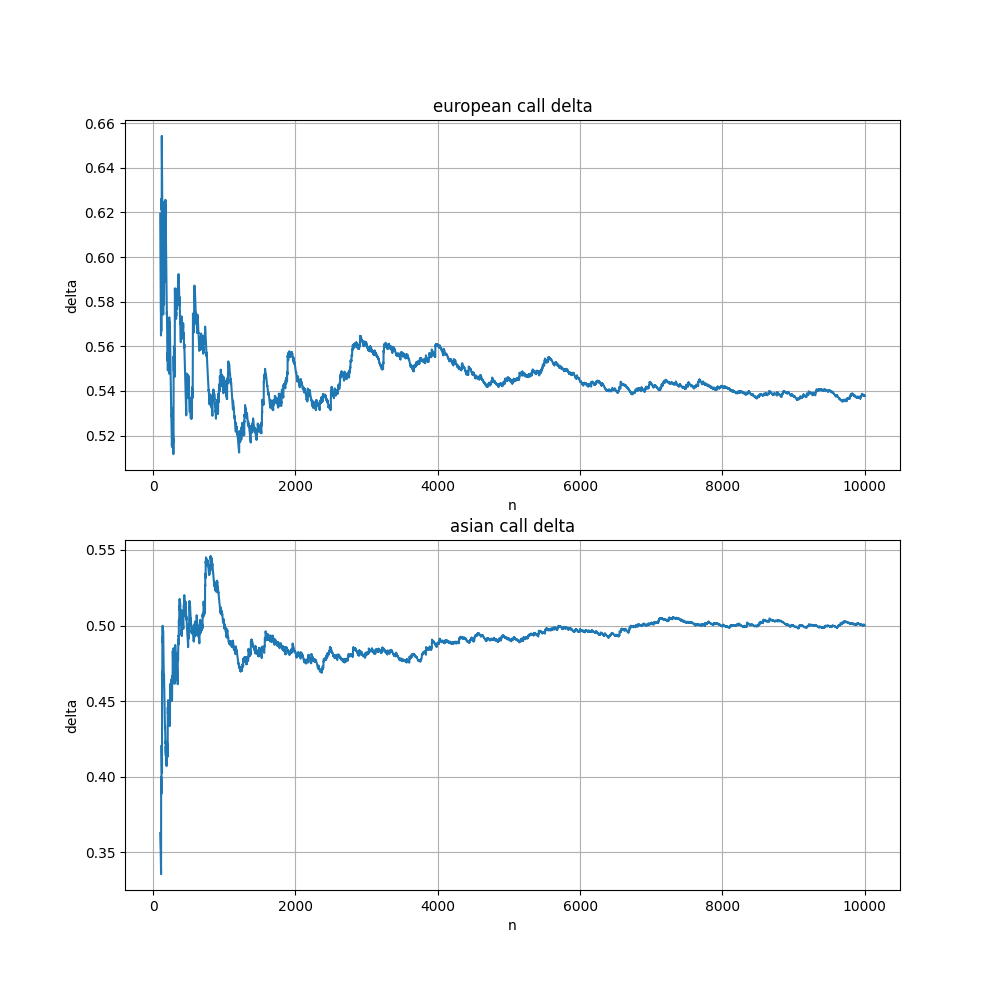
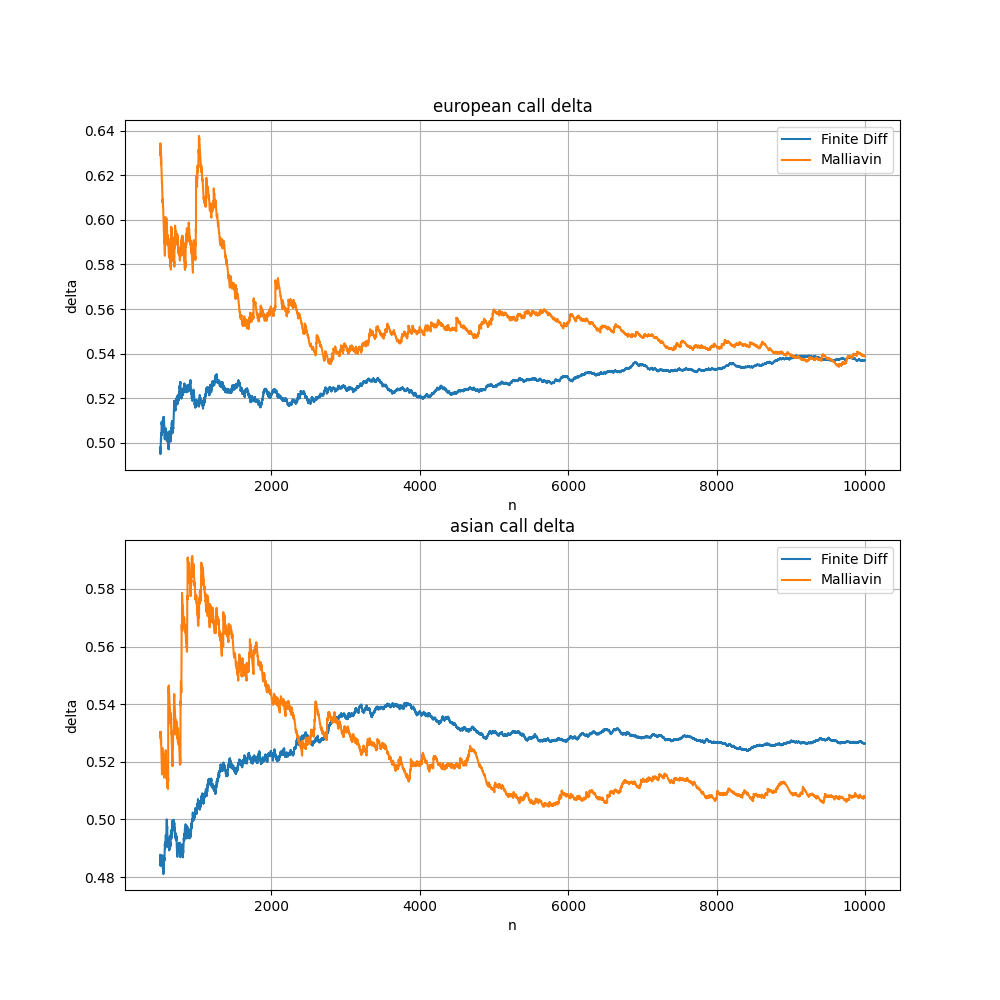
1. change framework  2.finite diff for delta

diff --git a/FiniteDiff.cpp b/FiniteDiff.cpp
@@ -1,16 +1,16 @@
+#include"FiniteDiff.h"
 #include<iostream>
 #include<math.h>
-#include"Malliavin.h"
 #include"utility.h"
 using namespace std;
 
-Malliavin::Malliavin(float S0_, float r_, float sigma_, float T_, float K_, int I_, int N_) :
+FiniteDiff::FiniteDiff(float S0_, float r_, float sigma_, float T_, float K_, int I_, int N_) :
 	S0(S0_), r(r_), sigma(sigma_), T(T_), K(K_), I(I_), N(N_) {};
 
-Malliavin::Malliavin():S0(100), r(0), sigma(0.2), T(1), K(100), I(100), N(10000) {};
+FiniteDiff::FiniteDiff() :S0(100), r(0), sigma(0.2), T(1), K(100), I(100), N(10000) {};
 
 // n is the time of simulation
-vector<float> Malliavin::rho(string option_type, int N) {
+vector<float> FiniteDiff::rho(string option_type, int N) {
 	vector<float> rhos, S;
 	float WT, r_sum = 0;
 	float sigma2 = pow(sigma, 2);
@@ -23,7 +23,7 @@ vector<float> Malliavin::rho(string option_type, int N) {
 		if (option_type == "EUR_CALL") {
 			float actualised_payoff = exp(-r * T) * payoff(option_type, S, K);
 			WT = (log(ST / S0) - b) / sigma;
-			r_sum += actualised_payoff * (WT / sigma - T);
+			r_sum += 0;
 		}
 		else if (option_type == "ASIA_CALL") {
 			r_sum += 0;
@@ -34,32 +34,29 @@ vector<float> Malliavin::rho(string option_type, int N) {
 }
 
 
-vector<float> Malliavin::delta(string option_type, int N) {
+vector<float> FiniteDiff::delta(string option_type, int N) {
 	vector<float> Deltas, S;
-	float WT, d_sum = 0;
 	float sigma2 = pow(sigma, 2);
 	float b = r - sigma2 / 2;
+	float d_sum = 0;
 
 	for (int i = 0; i < N; i++) {
 		S = generate_St(S0, r, sigma, I, h);
-		float ST = S.back();
 
 		if (option_type == "EUR_CALL") {
-			float actualised_payoff = exp(-r * T) * payoff(option_type, S, K);
-			WT = (log(ST / S0) - b) / sigma;
-			d_sum += actualised_payoff * WT / (S0 * sigma * T);
+			float ST = S.back();
+			d_sum += exp(-r * T) * ST / S0 * (ST > S0);
 		}
 		else if (option_type == "ASIA_CALL") {
-			float Integral_S = Sum(S) * h; //integration of S from 0 to T
-			float actualised_payoff = exp(-r * T) * payoff(option_type, S, K);
-			d_sum += actualised_payoff * (2 * (ST - S0) / (S0 * sigma2 * Integral_S) + (1 - 2 * r / sigma2) / S0);
+			float ST_bar = Mean(S);
+			d_sum += exp(-r * T) * ST_bar / S0 * (ST_bar > S0);
 		}
-		Deltas.push_back(d_sum/(i+1));
+		Deltas.push_back(d_sum / (i + 1));
 	}
 	return Deltas;
 }
 
-vector<float> Malliavin::gamma(string option_type, int N) {
+vector<float> FiniteDiff::gamma(string option_type, int N) {
 	vector<float> Gammas, S;
 	float WT, g_sum = 0;
 	float sigma2 = pow(sigma, 2);
@@ -72,20 +69,20 @@ vector<float> Malliavin::gamma(string option_type, int N) {
 		if (option_type == "EUR_CALL") {
 			float actualised_payoff = exp(-r * T) * payoff(option_type, S, K);
 			WT = (log(ST / S0) - b) / sigma;
-			g_sum += actualised_payoff * (pow(WT, 2) / (sigma * T) - WT - 1 / sigma) / (pow(S0, 2) * sigma * T);
+			g_sum += 0;
 		}
 		else if (option_type == "ASIA_CALL") {
 			float Integral_S = Sum(S) * h; //integration of S from 0 to T
 			float Upper_ST = Integral_S / T; //integration over time
 			float actualised_payoff = exp(-r * T) * payoff(option_type, S, K);
-			g_sum += 4 * actualised_payoff * (pow(ST - S0, 2) + b * r * pow(T * Upper_ST, 2) - 2 * r * T * ST * Upper_ST + 2 * b * T * S0 * Upper_ST) / pow(sigma2 * S0 * T * Upper_ST, 2);
+			g_sum += 0;
 		}
 		Gammas.push_back(g_sum / (i + 1));
 	}
 	return Gammas;
 }
 
-vector<float> Malliavin::vega(string option_type, int N) {
+vector<float> FiniteDiff::vega(string option_type, int N) {
 	vector<float> Vegas, Gammas;
 	float factor = pow(S0, 2) * sigma * T;
 	if (option_type == "EUR_CALL") {

diff --git a/draw.py b/draw.py
@@ -4,7 +4,7 @@ Version: 1.0
 Author: SHAO Nuoya
 Date: 2021-12-28 02:05:04
 LastEditors: SHAO Nuoya
-LastEditTime: 2022-01-06 19:02:23
+LastEditTime: 2022-01-07 20:18:05
 '''
 import matplotlib.pyplot as plt
 import seaborn as sns
@@ -31,36 +31,58 @@ def plot_corr(data1, data2):
     sns.heatmap(corr)
 
 
-def plot_greek(eur_data, asia_data, greek_name):
+def plot_greek(FD_eur_data, FD_asia_data, M_eur_data, M_asia_data, greek_name):
     plt.figure(figsize=(10, 10))
 
     plt.subplot(2, 1, 1)
-    plt.plot(range(100, len(eur_data)), eur_data[100:])
+    plt.plot(range(500, len(FD_eur_data)),
+             FD_eur_data[500:],
+             label='Finite Diff')
+    plt.plot(range(500, len(M_eur_data)), M_eur_data[500:], label='Malliavin')
     plt.title(f"european call {greek_name}")
     plt.xlabel('n')
     plt.ylabel(greek_name)
     plt.grid()
+    plt.legend()
 
     plt.subplot(2, 1, 2)
-    plt.plot(range(100, len(asia_data)), asia_data[100:])
+    plt.plot(range(500, len(FD_asia_data)),
+             FD_asia_data[500:],
+             label='Finite Diff')
+    plt.plot(range(500, len(M_asia_data)),
+             M_asia_data[500:],
+             label='Malliavin')
     plt.title(f"asian call {greek_name}")
     plt.xlabel('n')
     plt.ylabel(greek_name)
     plt.grid()
+    plt.legend()
+
     plt.savefig(f'Result/{greek_name}.png')
     plt.show()
 
 
-eur_delta = get_data('Result/Delta_EUR_CALL.txt')
-asia_delta = get_data('Result/Delta_ASIA_CALL.txt')
-eur_gamma = get_data('Result/Gamma_EUR_CALL.txt')
-asia_gamma = get_data('Result/Gamma_ASIA_CALL.txt')
-eur_vega = get_data('Result/Vega_EUR_CALL.txt')
-asia_vega = get_data('Result/Vega_ASIA_CALL.txt')
-eur_rho = get_data('Result/Rho_EUR_CALL.txt')
-asia_rho = get_data('Result/Rho_ASIA_CALL.txt')
+# # Malliavin
+m_eur_delta = get_data('Result/M_Delta_EUR_CALL.txt')
+m_asia_delta = get_data('Result/M_Delta_ASIA_CALL.txt')
+m_eur_gamma = get_data('Result/M_Gamma_EUR_CALL.txt')
+m_asia_gamma = get_data('Result/M_Gamma_ASIA_CALL.txt')
+m_eur_vega = get_data('Result/M_Vega_EUR_CALL.txt')
+m_asia_vega = get_data('Result/M_Vega_ASIA_CALL.txt')
+m_eur_rho = get_data('Result/M_Rho_EUR_CALL.txt')
+m_asia_rho = get_data('Result/M_Rho_ASIA_CALL.txt')
 
-plot_greek(eur_delta, asia_delta, 'delta')
-plot_greek(eur_gamma, asia_gamma, 'gamma')
-plot_greek(eur_vega, asia_vega, 'vega')
-plot_greek(eur_rho, asia_rho, 'rho')
+# Finite difference
+fd_eur_delta = get_data('Result/FD_Delta_EUR_CALL.txt')
+fd_asia_delta = get_data('Result/FD_Delta_ASIA_CALL.txt')
+fd_eur_gamma = get_data('Result/FD_Gamma_EUR_CALL.txt')
+fd_asia_gamma = get_data('Result/FD_Gamma_ASIA_CALL.txt')
+fd_eur_vega = get_data('Result/FD_Vega_EUR_CALL.txt')
+fd_asia_vega = get_data('Result/FD_Vega_ASIA_CALL.txt')
+fd_eur_rho = get_data('Result/FD_Rho_EUR_CALL.txt')
+fd_asia_rho = get_data('Result/FD_Rho_ASIA_CALL.txt')
+
+plot_greek(fd_eur_delta, fd_asia_delta, m_eur_delta, m_asia_delta, 'delta')
+plot_greek(fd_eur_gamma, fd_asia_gamma, m_eur_gamma, m_asia_gamma, 'gamma')
+plot_greek(fd_eur_vega, fd_asia_vega, m_eur_vega, m_asia_vega, 'vega')
+plot_greek(fd_eur_rho, fd_asia_rho, m_eur_rho, m_asia_rho, 'rho')

diff --git a/main.cpp b/main.cpp
@@ -1,10 +1,15 @@
 #include"Malliavin.h"
+#include"FiniteDiff.h"
+#include"utility.h"
 
 int main(void) {
-	Malliavin malliavin;
 	vector<float> delta1, delta2, gamma1, gamma2, vega1, vega2, rho1, rho2;
 	string option_type1 = "EUR_CALL";
 	string option_type2 = "ASIA_CALL";
+
+	/*
+	// Maliavin method
+	Malliavin malliavin;
 
 	delta1 = malliavin.delta(option_type1, malliavin.N);
 	delta2 = malliavin.delta(option_type2, malliavin.N);
@@ -18,17 +23,44 @@ int main(void) {
 	rho1 = malliavin.rho(option_type1, malliavin.N);
 	rho2 = malliavin.rho(option_type2, malliavin.N);
 
-	to_txt(delta1, "Delta_" + option_type1);
-	to_txt(delta2, "Delta_" + option_type2);
+	to_txt(delta1, "M_Delta_" + option_type1);
+	to_txt(delta2, "M_Delta_" + option_type2);
 
-	to_txt(gamma1, "Gamma_" + option_type1);
-	to_txt(gamma2, "Gamma_" + option_type2);
+	to_txt(gamma1, "M_Gamma_" + option_type1);
+	to_txt(gamma2, "M_Gamma_" + option_type2);
 
-	to_txt(vega1, "Vega_" + option_type1);
-	to_txt(vega2, "Vega_" + option_type2);
+	to_txt(vega1, "M_Vega_" + option_type1);
+	to_txt(vega2, "M_Vega_" + option_type2);
 
-	to_txt(rho1, "Rho_" + option_type1);
-	to_txt(rho2, "Rho_" + option_type2);
+	to_txt(rho1, "M_Rho_" + option_type1);
+	to_txt(rho2, "M_Rho_" + option_type2);
+	*/
+	// Finite difference method
+	FiniteDiff finite_diff;
+
+	delta1 = finite_diff.delta(option_type1, finite_diff.N);
+	delta2 = finite_diff.delta(option_type2, finite_diff.N);
+
+	gamma1 = finite_diff.gamma(option_type1, finite_diff.N);
+	gamma2 = finite_diff.gamma(option_type2, finite_diff.N);
+
+	vega1 = finite_diff.vega(option_type1, finite_diff.N);
+	vega2 = finite_diff.vega(option_type2, finite_diff.N);
+
+	rho1 = finite_diff.rho(option_type1, finite_diff.N);
+	rho2 = finite_diff.rho(option_type2, finite_diff.N);
+
+	to_txt(delta1, "FD_Delta_" + option_type1);
+	to_txt(delta2, "FD_Delta_" + option_type2);
+
+	to_txt(gamma1, "FD_Gamma_" + option_type1);
+	to_txt(gamma2, "FD_Gamma_" + option_type2);
+
+	to_txt(vega1, "FD_Vega_" + option_type1);
+	to_txt(vega2, "FD_Vega_" + option_type2);
+
+	to_txt(rho1, "FD_Rho_" + option_type1);
+	to_txt(rho2, "FD_Rho_" + option_type2);
 
 	return 0;
 }

diff --git a/utility.cpp b/utility.cpp
@@ -1,4 +1,7 @@
 #include"utility.h"
+#include <chrono>
+#include <random>
+using namespace std;
 
 //statistics
 float Sum(const vector<float> vec) { return accumulate(begin(vec), end(vec), 0.0); };
@@ -22,6 +25,76 @@ vector<float> multiply(const vector<float> v, float d) {
         res.push_back(v[i] * d);
     }
     return res;
+};
+
+float generate_N01() {
+	unsigned seed = chrono::system_clock::now().time_since_epoch().count();
+	default_random_engine e(seed);
+	normal_distribution<float> dis(0, 1);
+	float N01 = dis(e);
+	return N01;
+}
+
+vector<float> generate_St(float S0, float r, float sigma, float I, float h) {
+	vector<float> S;
+	S.push_back(S0);
+	float t, s, s_pre, dw;
+	float b = r - pow(sigma, 2) / 2;
+	for (int i = 1; i < I; i++) {
+		t = i * h;
+		s_pre = S.back();
+		dw = sqrt(h) * generate_N01();
+		s = s_pre + r * s_pre * h + sigma * s_pre * dw + pow(sigma, 2) * s_pre * (pow(dw, 2) - h) / 2;
+		S.push_back(s);
+	}
+	return S;
+}
+
+//payoff function
+float payoff(string option_type, vector<float> S, float K) {
+	float pay_off = 0;
+	if (option_type == "EUR_CALL") {
+		pay_off = max(S.back() - K, float(0));
+	}
+	else if (option_type == "ASIA_CALL") {
+		pay_off = max(Mean(S) - K, float(0));
+	}
+	return pay_off;
+};
+
+//analytical Greeks
+//no analytical solution for arithmetic asian option
+float greeks(string greek_name, string option_type = "EUR_CALL") {
+	float greek = 0;
+	if (option_type == "EUR_CALL") {
+		if (greek_name == "delta") {
+			greek = 0;
+		}
+		else if (greek_name == "gamma") {
+			greek = 0;
+		}
+		else if (greek_name == "vega") {
+			greek = 0;
+		}
+		else if (greek_name == "rho") {
+			greek = 0;
+		}
+	}
+	else if (option_type == "") {
+		if (greek_name == "delta") {
+			greek = 0;
+		}
+		else if (greek_name == "gamma") {
+			greek = 0;
+		}
+		else if (greek_name == "vega") {
+			greek = 0;
+		}
+		else if (greek_name == "rho") {
+			greek = 0;
+		}
+	}
+	return greek;
 };
 
 //output

diff --git a/FiniteDiff.h b/FiniteDiff.h
@@ -3,7 +3,7 @@
 #include<vector>
 
 using namespace std;
-class Malliavin {
+class FiniteDiff {
 private:
 	float S0; //current price of underlying
 	float r; //risk free rate
@@ -16,9 +16,9 @@ public:
 	int N; //simulation time
 	float h = T / I; //time step
 
-	Malliavin(float S0, float r, float sigma, float T, float K, int I, int N);
-	Malliavin();
-	
+	FiniteDiff(float S0, float r, float sigma, float T, float K, int I, int N);
+	FiniteDiff();
+
 	//simulation
 	vector<float> rho(string option_type, int n);
 	vector<float> delta(string option_type, int n);

diff --git a/utility.h b/utility.h
@@ -14,5 +14,15 @@ float Var(vector<float> vec);
 //operations for vector
 vector<float> multiply(vector<float> v, float d);
 
+//simulation of spot
+float generate_N01();
+vector<float> generate_St(float S0, float r, float sigma, float I, float h);
+
+//option type : European, Asian, Barrier
+float payoff(string option_type, vector<float> S, float K);
+
+//analytical values of greeks
+float greeks(string greek_name, string option_type);
+
 //output
 void to_txt(vector<float> array, string filename);
